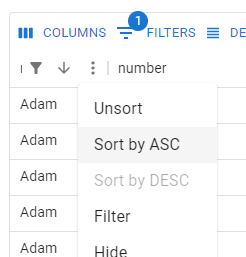
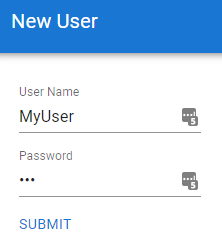
GitBook: [#176] No subject

diff --git a/userinterfaces/dashboards/examples.md b/userinterfaces/dashboards/examples.md
@@ -20,6 +20,24 @@ New-UDDashboard -Title 'Processes' -Content {
 
 <figure><img src="../../.gitbook/assets/image.png" alt=""><figcaption></figcaption></figure>
 
+## File System Browser
+
+Create a file system browser with a dynamic tree view.&#x20;
+
+```powershell
+New-UDDashboard -Title 'Processes' -Content {
+    Get-PSDrive -PSProvider 'FileSystem' | ForEach-Object {
+        New-UDTreeView -Node { New-UDTreeNode -Name $_.Name -Id "$($_.Name):\" } -OnNodeClicked {
+            Get-ChildItem $EventData.Id | ForEach-Object {
+                New-UDTreeNode -Name $_.Name -Id $_.FullName -Leaf:$(-not $_.PSIsContainer)
+            }
+        }
+    }
+}
+```
+
+<figure><img src="../../.gitbook/assets/image (2).png" alt=""><figcaption></figcaption></figure>
+
 ## Create User Form
 
 This example shows how to create a local user account.&#x20;
@@ -37,7 +55,7 @@ New-UDDashboard -Title 'New User' -Content {
 }
 ```
 
-<figure><img src="../../.gitbook/assets/image (2).png" alt=""><figcaption></figcaption></figure>
+<figure><img src="../../.gitbook/assets/image (2) (1).png" alt=""><figcaption></figcaption></figure>
 
 ## Stopwatch
 

diff --git a/userinterfaces/dashboards/components/data-display/data-grid.md b/userinterfaces/dashboards/components/data-display/data-grid.md
@@ -152,7 +152,7 @@ The link operator field is used to specify the link between the filters. This ca
 
 ### Sorting
 
-![](<../../../../.gitbook/assets/image (2) (1).png>)
+![](<../../../../.gitbook/assets/image (2) (1) (2).png>)
 
 The `$EventData` object will contain a `Sort` property when the user sorts the data grid. It contains properties for each column that is sorted. The properties will start as 0 and increment as more columns are sorted.&#x20;
 
